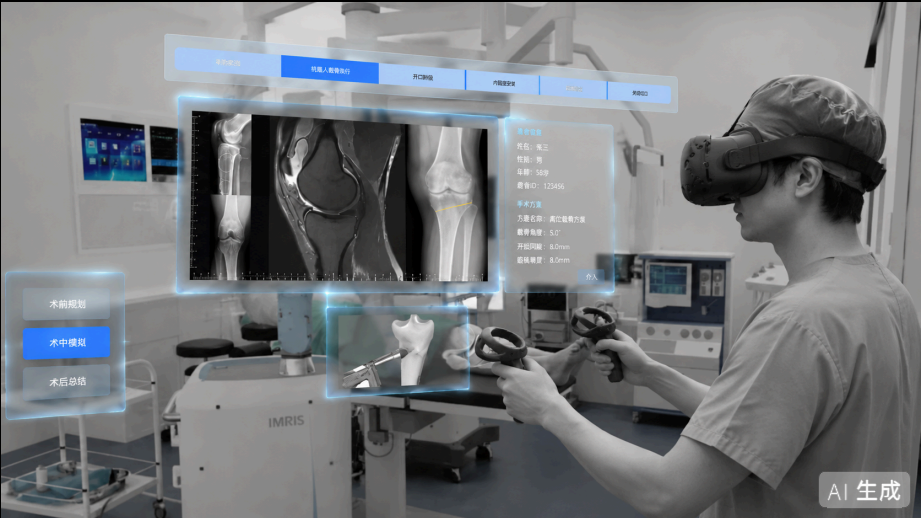
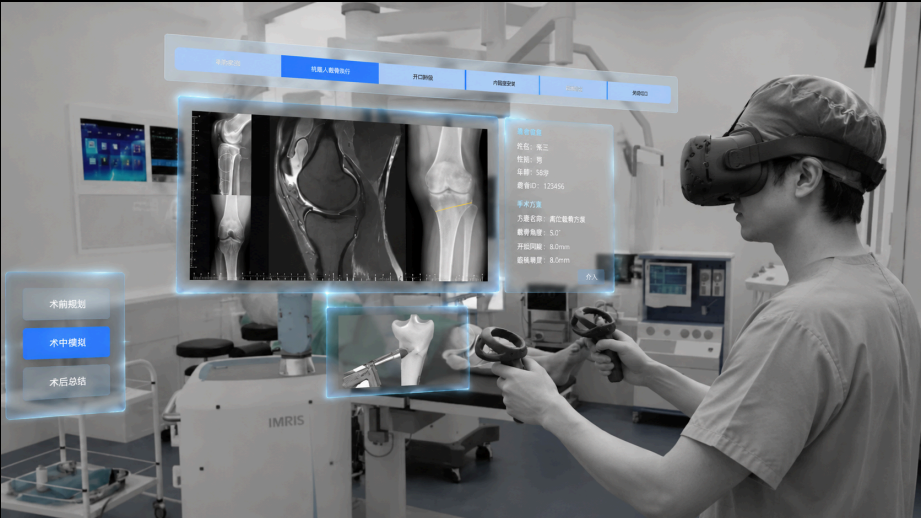
修复封面图：通过git底层命令写入无水印干净版本（绕过工作目录二次处理），版本参数升至v3

Changed region(s): [[0.8817, 0.8958, 1.0, 0.9884]]

diff --git a/pages/projects.html b/pages/projects.html
@@ -611,7 +611,7 @@
 
         <!-- Studio Project 04 -->
         <div class="project-card" data-category="studio" onclick="location.href='project-detail.html?id=10'">
-          <div class="project-card-image"><img src="../images/hto-vr-cover.png?v=2" alt="面向HTO骨科手术机器人的全流程VR系统设计" style="width:100%;height:100%;object-fit:cover;border-radius:6px;"></div>
+          <div class="project-card-image"><img src="../images/hto-vr-cover.png?v=3" alt="面向HTO骨科手术机器人的全流程VR系统设计" style="width:100%;height:100%;object-fit:cover;border-radius:6px;"></div>
           <div class="project-card-content">
             <div class="project-card-category">工作室项目</div>
             <h3 class="project-card-title">面向HTO骨科手术机器人的全流程VR系统设计</h3>

diff --git a/pages/project-detail.html b/pages/project-detail.html
@@ -464,7 +464,7 @@
           "更完整：覆盖术前→术中→术后全流程，配套康复监测设备"
         ],
         closing: "PREVIZ 不是替代医生的判断，而是把二维影像里看不见的空间关系、靠经验感知不到的方案差异，变成可以沉浸其中、可以并排比较、可以实时验证的三维体验——让术前规划从「看图想象」走向「预演决策」。",
-        coverImage: "../images/hto-vr-cover.png?v=2"
+        coverImage: "../images/hto-vr-cover.png?v=3"
       }
     };
 
